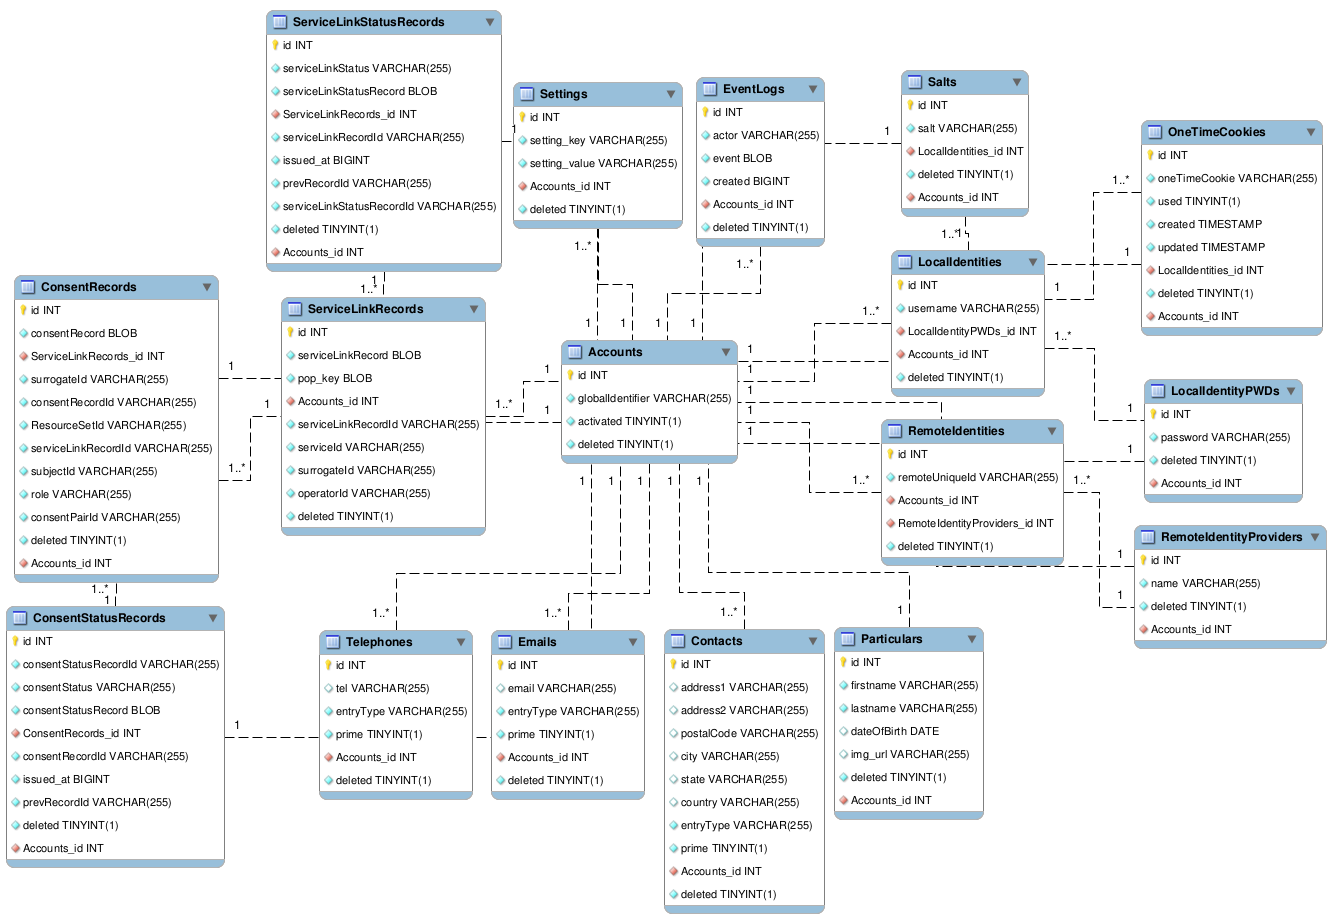
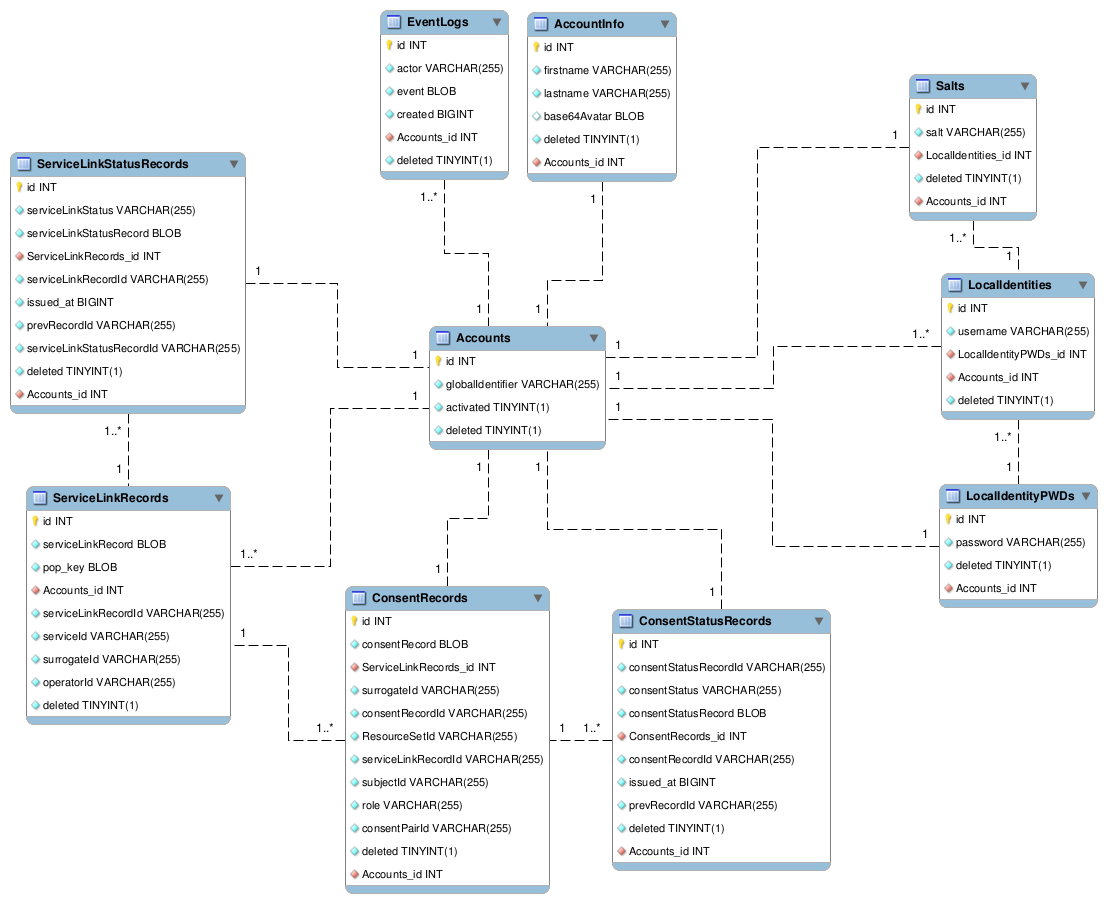
External API - Database redesign

Changed region(s): [[0.0, 0.0, 0.7678, 0.9922], [0.645, 0.062, 1.0, 0.7132], [0.43, 0.2791, 0.4607, 0.3101]]

diff --git a/Account/config.py b/Account/config.py
@@ -67,5 +67,5 @@ SESSION_PROTECTION = "strong"  # https://flask-login.readthedocs.org/en/latest/#
 # Optional cookie settings: https://flask-login.readthedocs.org/en/latest/#cookie-settings
 
 
-# Default locations
-AVATAR_URL = 'img/avatars/mydata-avatar.png' # Default icon for Account
+# Default icon for Account
[1 lines of base64/hex data omitted]
